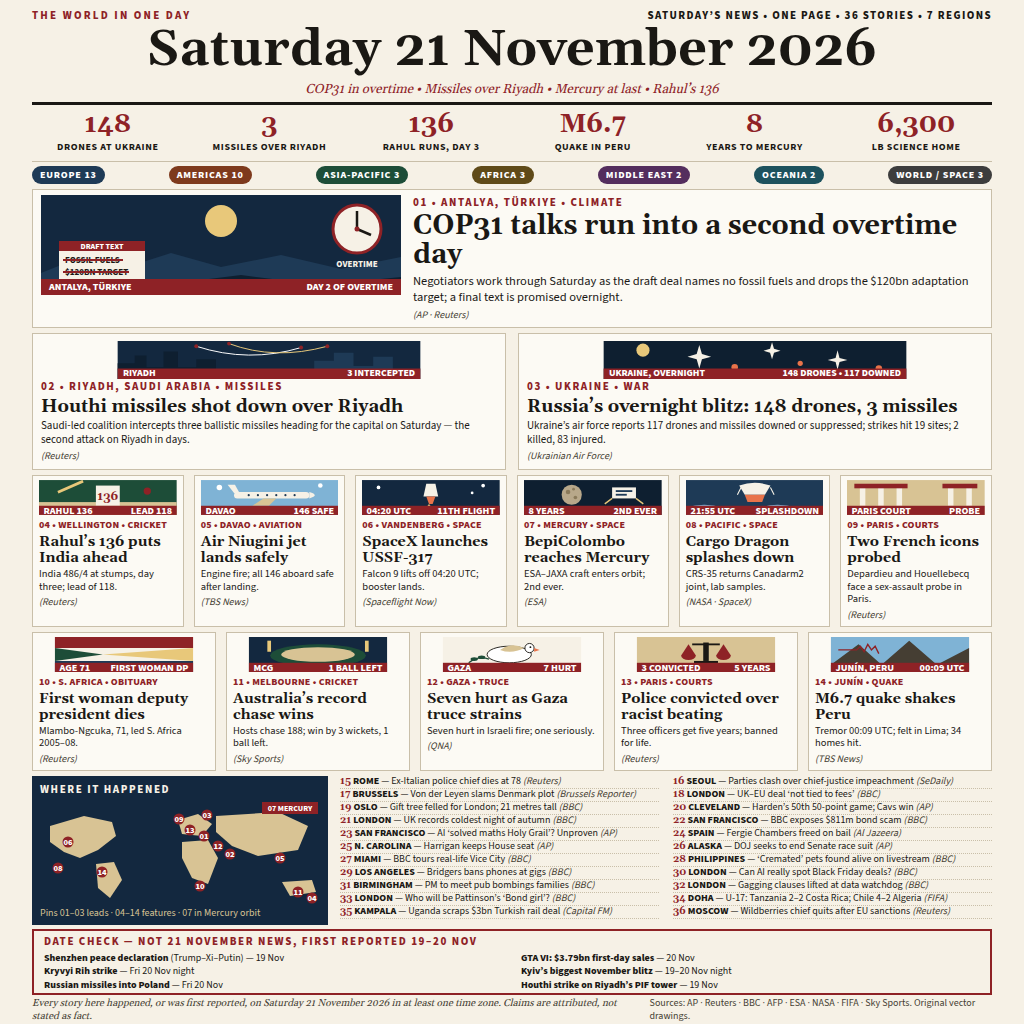
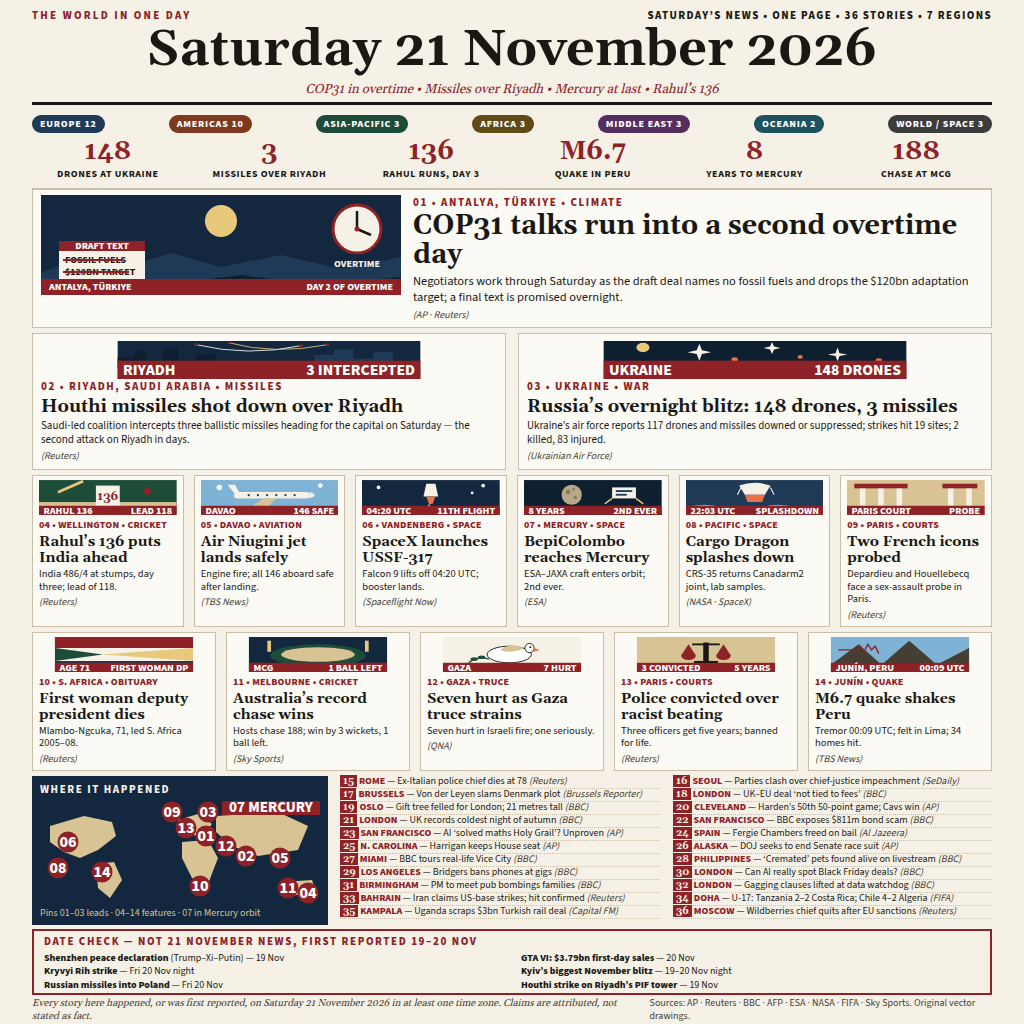
ni21 v2r2: improve round 1 — glyphs to 10px, Dragon 22:03 UTC, KPI 188, Bahrain brief, A17/A18

diff --git a/render.html b/render.html
@@ -51,8 +51,8 @@ h1.masthead{font-family:'Gelasio',serif;font-weight:800;font-size:50px;line-heig
 .mapbox svg{display:block;width:280px;height:104px;margin-top:3px}
 .briefs{flex:1;display:grid;grid-template-columns:1fr 1fr;gap:0 14px;align-content:start}
 .brief{font-size:10px;line-height:11px;padding:0.5px 0;border-bottom:1px dotted #C9BFA9}
-.brief b{font-weight:800}
-.brief .n{color:#8E2226;font-weight:800;font-family:'Gelasio',serif}
+.brief b{font-weight:800;color:#8E2226}
+.brief .n{color:#F6F1E6;font-weight:800;font-family:'Gelasio',serif;background:#8E2226;padding:0 3px}
 .brief i{color:#453E33}
 .datecheck{border:2px solid #8E2226;padding:3px 10px 2px;margin-top:4px}
 .datecheck h5{font-size:11px;font-weight:800;letter-spacing:1.6px;color:#8E2226}
@@ -69,22 +69,22 @@ h1.masthead{font-family:'Gelasio',serif;font-weight:800;font-size:50px;line-heig
   <h1 class="masthead">Saturday 21 November 2026</h1>
   <div class="subdeck">COP31 in overtime &bull; Missiles over Riyadh &bull; Mercury at last &bull; Rahul&rsquo;s 136</div>
   <hr class="rule">
+  <div class="chips">
+    <span class="chip" style="background:#1E3A56">EUROPE 12</span>
+    <span class="chip" style="background:#7E3A1D">AMERICAS 10</span>
+    <span class="chip" style="background:#1D4D38">ASIA-PACIFIC 3</span>
+    <span class="chip" style="background:#5F4A18">AFRICA 3</span>
+    <span class="chip" style="background:#542E5E">MIDDLE EAST 3</span>
+    <span class="chip" style="background:#1D525E">OCEANIA 2</span>
+    <span class="chip" style="background:#3D3D3D">WORLD / SPACE 3</span>
+  </div>
   <div class="kpi">
     <div class="cell"><div class="num">148</div><div class="cap">DRONES AT UKRAINE</div></div>
     <div class="cell"><div class="num">3</div><div class="cap">MISSILES OVER RIYADH</div></div>
     <div class="cell"><div class="num">136</div><div class="cap">RAHUL RUNS, DAY 3</div></div>
     <div class="cell"><div class="num">M6.7</div><div class="cap">QUAKE IN PERU</div></div>
     <div class="cell"><div class="num">8</div><div class="cap">YEARS TO MERCURY</div></div>
-    <div class="cell"><div class="num">6,300</div><div class="cap">LB SCIENCE HOME</div></div>
-  </div>
-  <div class="chips">
-    <span class="chip" style="background:#1E3A56">EUROPE 13</span>
-    <span class="chip" style="background:#7E3A1D">AMERICAS 10</span>
-    <span class="chip" style="background:#1D4D38">ASIA-PACIFIC 3</span>
-    <span class="chip" style="background:#5F4A18">AFRICA 3</span>
-    <span class="chip" style="background:#542E5E">MIDDLE EAST 2</span>
-    <span class="chip" style="background:#1D525E">OCEANIA 2</span>
-    <span class="chip" style="background:#3D3D3D">WORLD / SPACE 3</span>
+    <div class="cell"><div class="num">188</div><div class="cap">CHASE AT MCG</div></div>
   </div>
   <div class="hero">
     <div class="hero-art">
@@ -95,16 +95,16 @@ h1.masthead{font-family:'Gelasio',serif;font-weight:800;font-size:50px;line-heig
         <path d="M0 92 L60 82 L120 90 L200 80 L280 90 L360 82 L360 100 L0 100 Z" fill="#0E1F30"/>
         <rect x="18" y="46" width="86" height="38" fill="#F6F1E6"/>
         <rect x="18" y="46" width="86" height="10" fill="#8E2226"/>
-        <text x="61" y="54" font-family="Source Sans 3,sans-serif" font-size="8" font-weight="800" fill="#fff" text-anchor="middle">DRAFT TEXT</text>
-        <text x="24" y="68" font-family="Source Sans 3,sans-serif" font-size="9" font-weight="700" fill="#1A1814">FOSSIL FUELS</text>
+        <text x="61" y="54" font-family="Source Sans 3,sans-serif" font-size="10" font-weight="800" fill="#fff" text-anchor="middle">DRAFT TEXT</text>
+        <text x="24" y="68" font-family="Source Sans 3,sans-serif" font-size="10" font-weight="700" fill="#1A1814">FOSSIL FUELS</text>
         <line x1="22" y1="65" x2="82" y2="65" stroke="#8E2226" stroke-width="2"/>
-        <text x="24" y="80" font-family="Source Sans 3,sans-serif" font-size="9" font-weight="700" fill="#1A1814">$120BN TARGET</text>
+        <text x="24" y="80" font-family="Source Sans 3,sans-serif" font-size="10" font-weight="700" fill="#1A1814">$120BN TARGET</text>
         <line x1="22" y1="77" x2="88" y2="77" stroke="#8E2226" stroke-width="2"/>
         <circle cx="316" cy="34" r="24" fill="#F6F1E6" stroke="#8E2226" stroke-width="3"/>
         <line x1="316" y1="34" x2="316" y2="16" stroke="#1A1814" stroke-width="2.5"/>
         <line x1="316" y1="34" x2="330" y2="40" stroke="#1A1814" stroke-width="2.5"/>
         <circle cx="316" cy="34" r="2.5" fill="#8E2226"/>
-        <text x="316" y="72" font-family="Source Sans 3,sans-serif" font-size="9" font-weight="800" fill="#F6F1E6" text-anchor="middle">OVERTIME</text>
+        <text x="316" y="72" font-family="Source Sans 3,sans-serif" font-size="10" font-weight="800" fill="#F6F1E6" text-anchor="middle">OVERTIME</text>
         <rect x="0" y="84" width="360" height="16" fill="#8E2226"/>
         <text x="8" y="95" font-family="Source Sans 3,sans-serif" font-size="10" font-weight="800" fill="#fff">ANTALYA, T&#220;RKIYE</text>
         <text x="352" y="95" font-family="Source Sans 3,sans-serif" font-size="10" font-weight="800" fill="#fff" text-anchor="end">DAY 2 OF OVERTIME</text>
@@ -121,15 +121,17 @@ h1.masthead{font-family:'Gelasio',serif;font-weight:800;font-size:50px;line-heig
     <div class="lead">
       <svg viewBox="0 0 462 58" xmlns="http://www.w3.org/2000/svg">
         <rect width="462" height="58" fill="#13283F"/>
+        <g transform="scale(1 0.714)">
         <path d="M0 58 L0 34 L26 34 L26 22 L44 22 L44 40 L70 40 L70 16 L92 16 L92 40 L120 40 L120 28 L150 28 L150 58 Z" fill="#0E1F30"/>
         <path d="M300 58 L300 30 L330 30 L330 18 L360 18 L360 38 L390 38 L390 24 L420 24 L420 58 Z" fill="#1E3A56"/>
         <path d="M120 8 Q200 34 280 10" stroke="#fff" stroke-width="1.5" fill="none"/>
         <path d="M170 4 Q240 30 320 8" stroke="#E8C87A" stroke-width="1.5" fill="none"/>
         <circle cx="120" cy="8" r="3" fill="#8E2226"/><circle cx="280" cy="10" r="3" fill="#8E2226"/>
         <circle cx="170" cy="4" r="3" fill="#8E2226"/><circle cx="320" cy="8" r="3" fill="#8E2226"/>
-        <rect x="0" y="42" width="462" height="16" fill="#8E2226"/>
-        <text x="8" y="54" font-family="Source Sans 3,sans-serif" font-size="15" font-weight="800" fill="#fff">RIYADH</text>
-        <text x="454" y="54" font-family="Source Sans 3,sans-serif" font-size="15" font-weight="800" fill="#fff" text-anchor="end">3 INTERCEPTED</text>
+        </g>
+        <rect x="0" y="30" width="462" height="28" fill="#8E2226"/>
+        <text x="8" y="52" font-family="Source Sans 3,sans-serif" font-size="24" font-weight="800" fill="#fff">RIYADH</text>
+        <text x="454" y="52" font-family="Source Sans 3,sans-serif" font-size="24" font-weight="800" fill="#fff" text-anchor="end">3 INTERCEPTED</text>
       </svg>
       <div class="kick">02 &bull; Riyadh, Saudi Arabia &bull; Missiles</div>
       <h3>Houthi missiles shot down over Riyadh</h3>
@@ -139,12 +141,14 @@ h1.masthead{font-family:'Gelasio',serif;font-weight:800;font-size:50px;line-heig
     <div class="lead">
       <svg viewBox="0 0 462 58" xmlns="http://www.w3.org/2000/svg">
         <rect width="462" height="58" fill="#0E1F30"/>
+        <g transform="scale(1 0.714)">
         <circle cx="60" cy="14" r="10" fill="#E8C87A"/>
         <g fill="#F6F1E6"><path d="M150 20 l14 4 -14 4 -4 14 -4 -14 -14 -4 14 -4 4 -14 4 14z"/><path d="M260 12 l10 3 -10 3 -3 10 -3 -10 -10 -3 10 -3 3 -10 3 10z"/><path d="M360 26 l12 3 -12 3 -3 12 -3 -12 -12 -3 12 -3 3 -12 3 12z"/></g>
         <circle cx="200" cy="40" r="5" fill="#E8734A"/><circle cx="300" cy="34" r="4" fill="#E8734A"/><circle cx="420" cy="42" r="5" fill="#E8734A"/>
-        <rect x="0" y="42" width="462" height="16" fill="#8E2226"/>
-        <text x="8" y="54" font-family="Source Sans 3,sans-serif" font-size="15" font-weight="800" fill="#fff">UKRAINE, OVERNIGHT</text>
-        <text x="454" y="54" font-family="Source Sans 3,sans-serif" font-size="15" font-weight="800" fill="#fff" text-anchor="end">148 DRONES &bull; 117 DOWNED</text>
+        </g>
+        <rect x="0" y="30" width="462" height="28" fill="#8E2226"/>
+        <text x="8" y="52" font-family="Source Sans 3,sans-serif" font-size="24" font-weight="800" fill="#fff">UKRAINE</text>
+        <text x="454" y="52" font-family="Source Sans 3,sans-serif" font-size="24" font-weight="800" fill="#fff" text-anchor="end">148 DRONES</text>
       </svg>
       <div class="kick">03 &bull; Ukraine &bull; War</div>
       <h3>Russia&rsquo;s overnight blitz: 148 drones, 3 missiles</h3>
@@ -182,7 +186,7 @@ h1.masthead{font-family:'Gelasio',serif;font-weight:800;font-size:50px;line-heig
       <div class="src">(ESA)</div>
     </div>
     <div class="feat">
-      <svg viewBox="0 0 150 38" xmlns="http://www.w3.org/2000/svg"><rect width="150" height="38" fill="#1E3A56"/><path d="M58 6 q17 -6 34 0 l-6 10 h-22z" fill="#F6F1E6"/><path d="M64 16 h22 l-3 8 h-16z" fill="#E8734A"/><path d="M60 8 l-4 8 M92 8 l4 8" stroke="#F6F1E6" stroke-width="1.2"/><path d="M0 30 q20 -6 40 0 t40 0 t40 0 t30 0 v8 h-150z" fill="#7FB3D5"/><rect y="28" width="150" height="10" fill="#8E2226"/><text x="5" y="36.5" font-family="Source Sans 3,sans-serif" font-size="11" font-weight="800" fill="#fff">21:55 UTC</text><text x="145" y="36.5" font-family="Source Sans 3,sans-serif" font-size="11" font-weight="800" fill="#fff" text-anchor="end">SPLASHDOWN</text></svg>
+      <svg viewBox="0 0 150 38" xmlns="http://www.w3.org/2000/svg"><rect width="150" height="38" fill="#1E3A56"/><path d="M58 6 q17 -6 34 0 l-6 10 h-22z" fill="#F6F1E6"/><path d="M64 16 h22 l-3 8 h-16z" fill="#E8734A"/><path d="M60 8 l-4 8 M92 8 l4 8" stroke="#F6F1E6" stroke-width="1.2"/><path d="M0 30 q20 -6 40 0 t40 0 t40 0 t30 0 v8 h-150z" fill="#7FB3D5"/><rect y="28" width="150" height="10" fill="#8E2226"/><text x="5" y="36.5" font-family="Source Sans 3,sans-serif" font-size="11" font-weight="800" fill="#fff">22:03 UTC</text><text x="145" y="36.5" font-family="Source Sans 3,sans-serif" font-size="11" font-weight="800" fill="#fff" text-anchor="end">SPLASHDOWN</text></svg>
       <div class="kick">08 &bull; PACIFIC &bull; SPACE</div>
       <h4>Cargo Dragon splashes down</h4>
       <p>CRS-35 returns Canadarm2 joint, lab samples.</p>
@@ -246,22 +250,22 @@ h1.masthead{font-family:'Gelasio',serif;font-weight:800;font-size:50px;line-heig
           <path d="M176 16 L238 12 L268 26 L258 50 L218 56 L192 46 L176 32 Z"/>
           <path d="M242 82 L272 80 L276 92 L250 96 Z"/>
         </g>
-        <rect x="222" y="2" width="56" height="12" fill="#8E2226"/>
-        <text x="250" y="11" font-family="Source Sans 3,sans-serif" font-size="8" font-weight="800" fill="#fff" text-anchor="middle">07 MERCURY</text>
-        <g font-family="Source Sans 3,sans-serif" font-size="8.5" font-weight="800" text-anchor="middle">
-          <g><circle cx="28" cy="42" r="5.5" fill="#8E2226"/><text x="28" y="45" fill="#fff">06</text></g>
-          <g><circle cx="18" cy="68" r="5.5" fill="#8E2226"/><text x="18" y="71" fill="#fff">08</text></g>
-          <g><circle cx="62" cy="72" r="5.5" fill="#8E2226"/><text x="62" y="75" fill="#fff">14</text></g>
-          <g><circle cx="190" cy="54" r="5.5" fill="#8E2226"/><text x="190" y="57" fill="#fff">02</text></g>
-          <g><circle cx="178" cy="46" r="5.5" fill="#8E2226"/><text x="178" y="49" fill="#fff">12</text></g>
-          <g><circle cx="167" cy="15" r="5.5" fill="#8E2226"/><text x="167" y="18" fill="#fff">03</text></g>
-          <g><circle cx="164" cy="36" r="5.5" fill="#8E2226"/><text x="164" y="39" fill="#fff">01</text></g>
-          <g><circle cx="139" cy="19" r="5.5" fill="#8E2226"/><text x="139" y="22" fill="#fff">09</text></g>
-          <g><circle cx="150" cy="30" r="5.5" fill="#8E2226"/><text x="150" y="33" fill="#fff">13</text></g>
-          <g><circle cx="160" cy="86" r="5.5" fill="#8E2226"/><text x="160" y="89" fill="#fff">10</text></g>
-          <g><circle cx="272" cy="98" r="5.5" fill="#8E2226"/><text x="272" y="101" fill="#fff">04</text></g>
-          <g><circle cx="258" cy="92" r="5.5" fill="#8E2226"/><text x="258" y="95" fill="#fff">11</text></g>
-          <g><circle cx="240" cy="58" r="5.5" fill="#8E2226"/><text x="240" y="61" fill="#fff">05</text></g>
+        <rect x="182" y="1" width="98" height="14" fill="#8E2226"/>
+        <text x="231" y="12" font-family="Source Sans 3,sans-serif" font-size="15" font-weight="800" fill="#fff" text-anchor="middle">07 MERCURY</text>
+        <g font-family="Source Sans 3,sans-serif" font-size="16" font-weight="800" text-anchor="middle">
+          <g><circle cx="28" cy="42" r="10.5" fill="#8E2226"/><text x="28" y="47" fill="#fff">06</text></g>
+          <g><circle cx="18" cy="68" r="10.5" fill="#8E2226"/><text x="18" y="73" fill="#fff">08</text></g>
+          <g><circle cx="62" cy="72" r="10.5" fill="#8E2226"/><text x="62" y="77" fill="#fff">14</text></g>
+          <g><circle cx="206" cy="56" r="10.5" fill="#8E2226"/><text x="206" y="61" fill="#fff">02</text></g>
+          <g><circle cx="186" cy="46" r="10.5" fill="#8E2226"/><text x="186" y="51" fill="#fff">12</text></g>
+          <g><circle cx="168" cy="12" r="10.5" fill="#8E2226"/><text x="168" y="17" fill="#fff">03</text></g>
+          <g><circle cx="166" cy="36" r="10.5" fill="#8E2226"/><text x="166" y="41" fill="#fff">01</text></g>
+          <g><circle cx="132" cy="12" r="10.5" fill="#8E2226"/><text x="132" y="17" fill="#fff">09</text></g>
+          <g><circle cx="146" cy="28" r="10.5" fill="#8E2226"/><text x="146" y="33" fill="#fff">13</text></g>
+          <g><circle cx="160" cy="86" r="10.5" fill="#8E2226"/><text x="160" y="91" fill="#fff">10</text></g>
+          <g><circle cx="268" cy="93" r="10.5" fill="#8E2226"/><text x="268" y="98" fill="#fff">04</text></g>
+          <g><circle cx="248" cy="88" r="10.5" fill="#8E2226"/><text x="248" y="93" fill="#fff">11</text></g>
+          <g><circle cx="240" cy="58" r="10.5" fill="#8E2226"/><text x="240" y="63" fill="#fff">05</text></g>
         </g>
       </svg>
       <div class="legend">Pins 01&ndash;03 leads &middot; 04&ndash;14 features &middot; 07 in Mercury orbit</div>
@@ -285,7 +289,7 @@ h1.masthead{font-family:'Gelasio',serif;font-weight:800;font-size:50px;line-heig
       <div class="brief"><span class="n">30</span> <b>LONDON</b> &mdash; Can AI really spot Black Friday deals? <i>(BBC)</i></div>
       <div class="brief"><span class="n">31</span> <b>BIRMINGHAM</b> &mdash; PM to meet pub bombings families <i>(BBC)</i></div>
       <div class="brief"><span class="n">32</span> <b>LONDON</b> &mdash; Gagging clauses lifted at data watchdog <i>(BBC)</i></div>
-      <div class="brief"><span class="n">33</span> <b>LONDON</b> &mdash; Who will be Pattinson&rsquo;s &lsquo;Bond girl&rsquo;? <i>(BBC)</i></div>
+      <div class="brief"><span class="n">33</span> <b>BAHRAIN</b> &mdash; Iran claims US-base strikes; hit confirmed <i>(Reuters)</i></div>
       <div class="brief"><span class="n">34</span> <b>DOHA</b> &mdash; U-17: Tanzania 2&ndash;2 Costa Rica; Chile 4&ndash;2 Algeria <i>(FIFA)</i></div>
       <div class="brief"><span class="n">35</span> <b>KAMPALA</b> &mdash; Uganda scraps $3bn Turkish rail deal <i>(Capital FM)</i></div>
       <div class="brief"><span class="n">36</span> <b>MOSCOW</b> &mdash; Wildberries chief quits after EU sanctions <i>(Reuters)</i></div>
